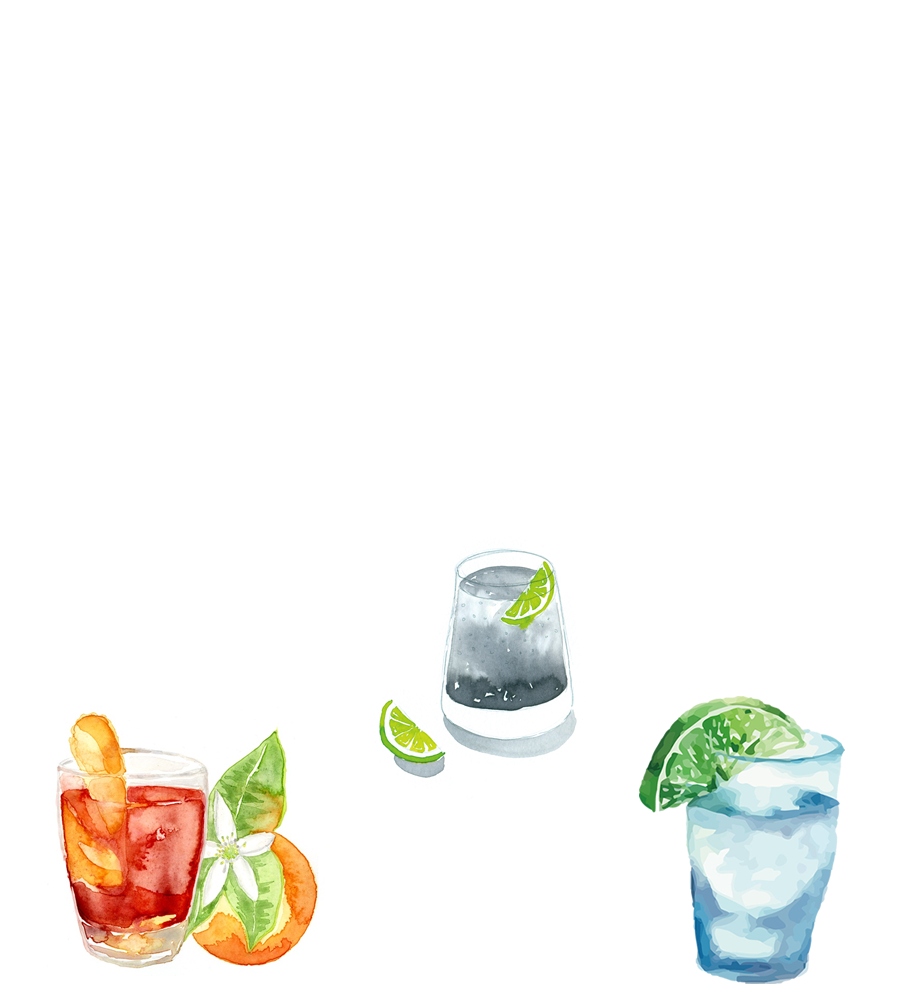
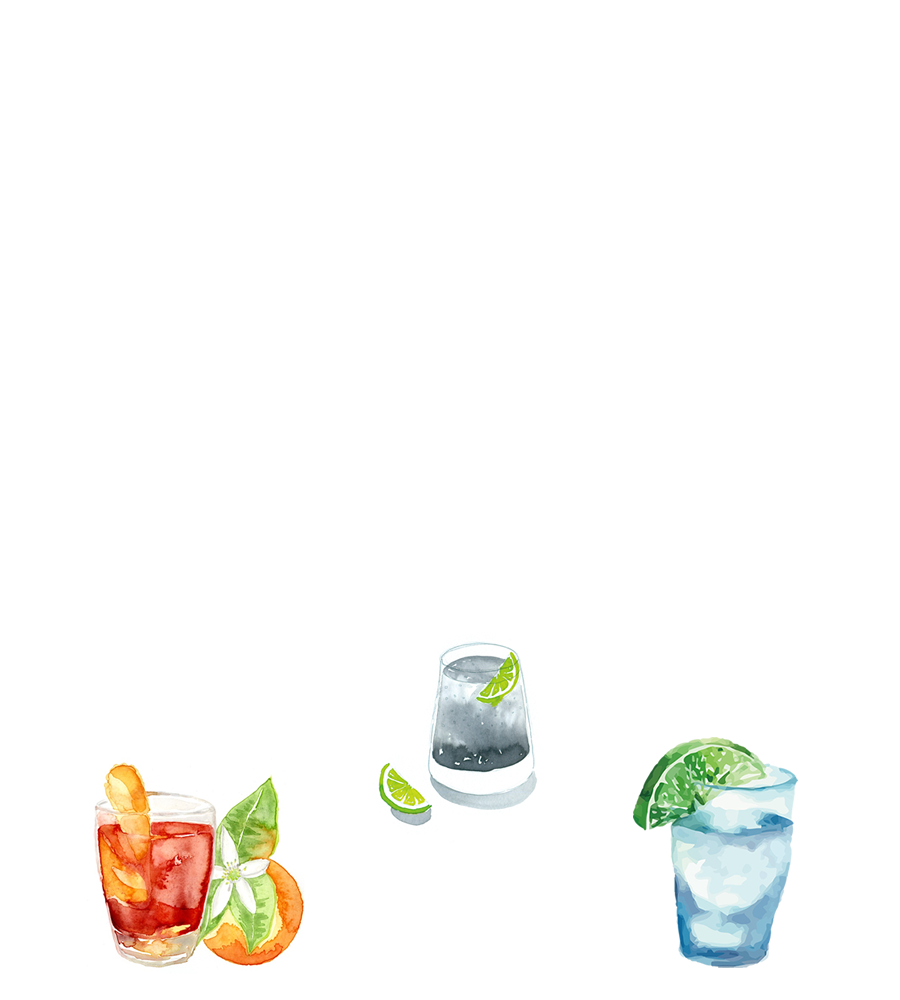
Cleaned up some styling

Changed region(s): [[0.0622, 0.713, 0.3733, 0.992], [0.6844, 0.682, 0.9333, 0.992], [0.4044, 0.527, 0.6533, 0.837]]

diff --git a/index.html b/index.html
@@ -20,9 +20,9 @@
   <body>
     
     <h1>COCKTAIL CRYSTALS COLLECTOR </h1>
-       <p>Each crystal has a hidden value that is revealed when clicked.  The crystal's value is added to the total score when clicked.  If your total score matches the magic number - you win!  If your total score exceeds it, you lose. <br> Good luck!</p>
+       <p id="instructions">Each crystal has a hidden value that is revealed when clicked.  <br>The crystal's value is added to the total score when clicked.  <br>If your total score matches the magic number - you win!  <br>If your total score exceeds it, you lose. <br> Good luck!</p>
      
-       
+       <br>
            <p id="result"></p>
        
        <div class="container">

diff --git a/assets/css/style.css b/assets/css/style.css
@@ -6,12 +6,15 @@ body {
     line-height: 2.5em;
      background: url("../images/watercolor-drink-vector.png");
      background-repeat: no-repeat;
+     background-position: center top; 
+     width: 60%;
 }
 
 h1 {
     font-size: 30px;
     margin: 20px;
      line-height:  1.5em;
+     font-weight: 300;
 }
 
 p {
@@ -34,7 +37,7 @@ p {
 }
 
 .crystal {
-         border: 1px solid green;
+         border: 1px solid gray;
          height: 200px;
          width: 200px;
 }
